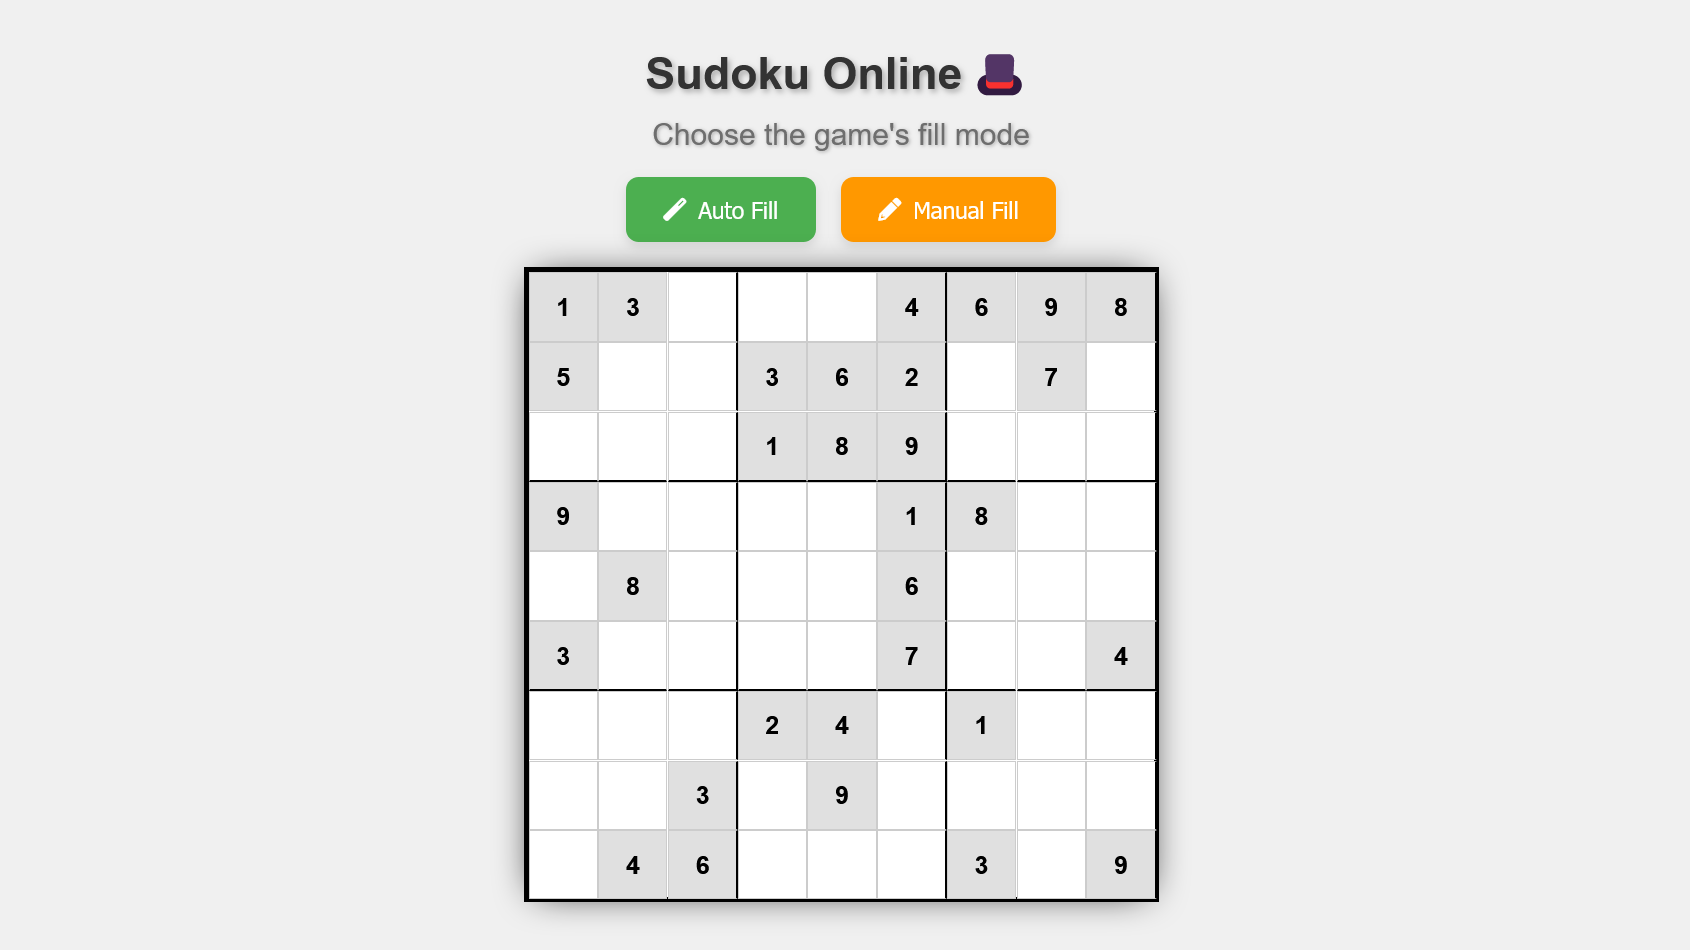
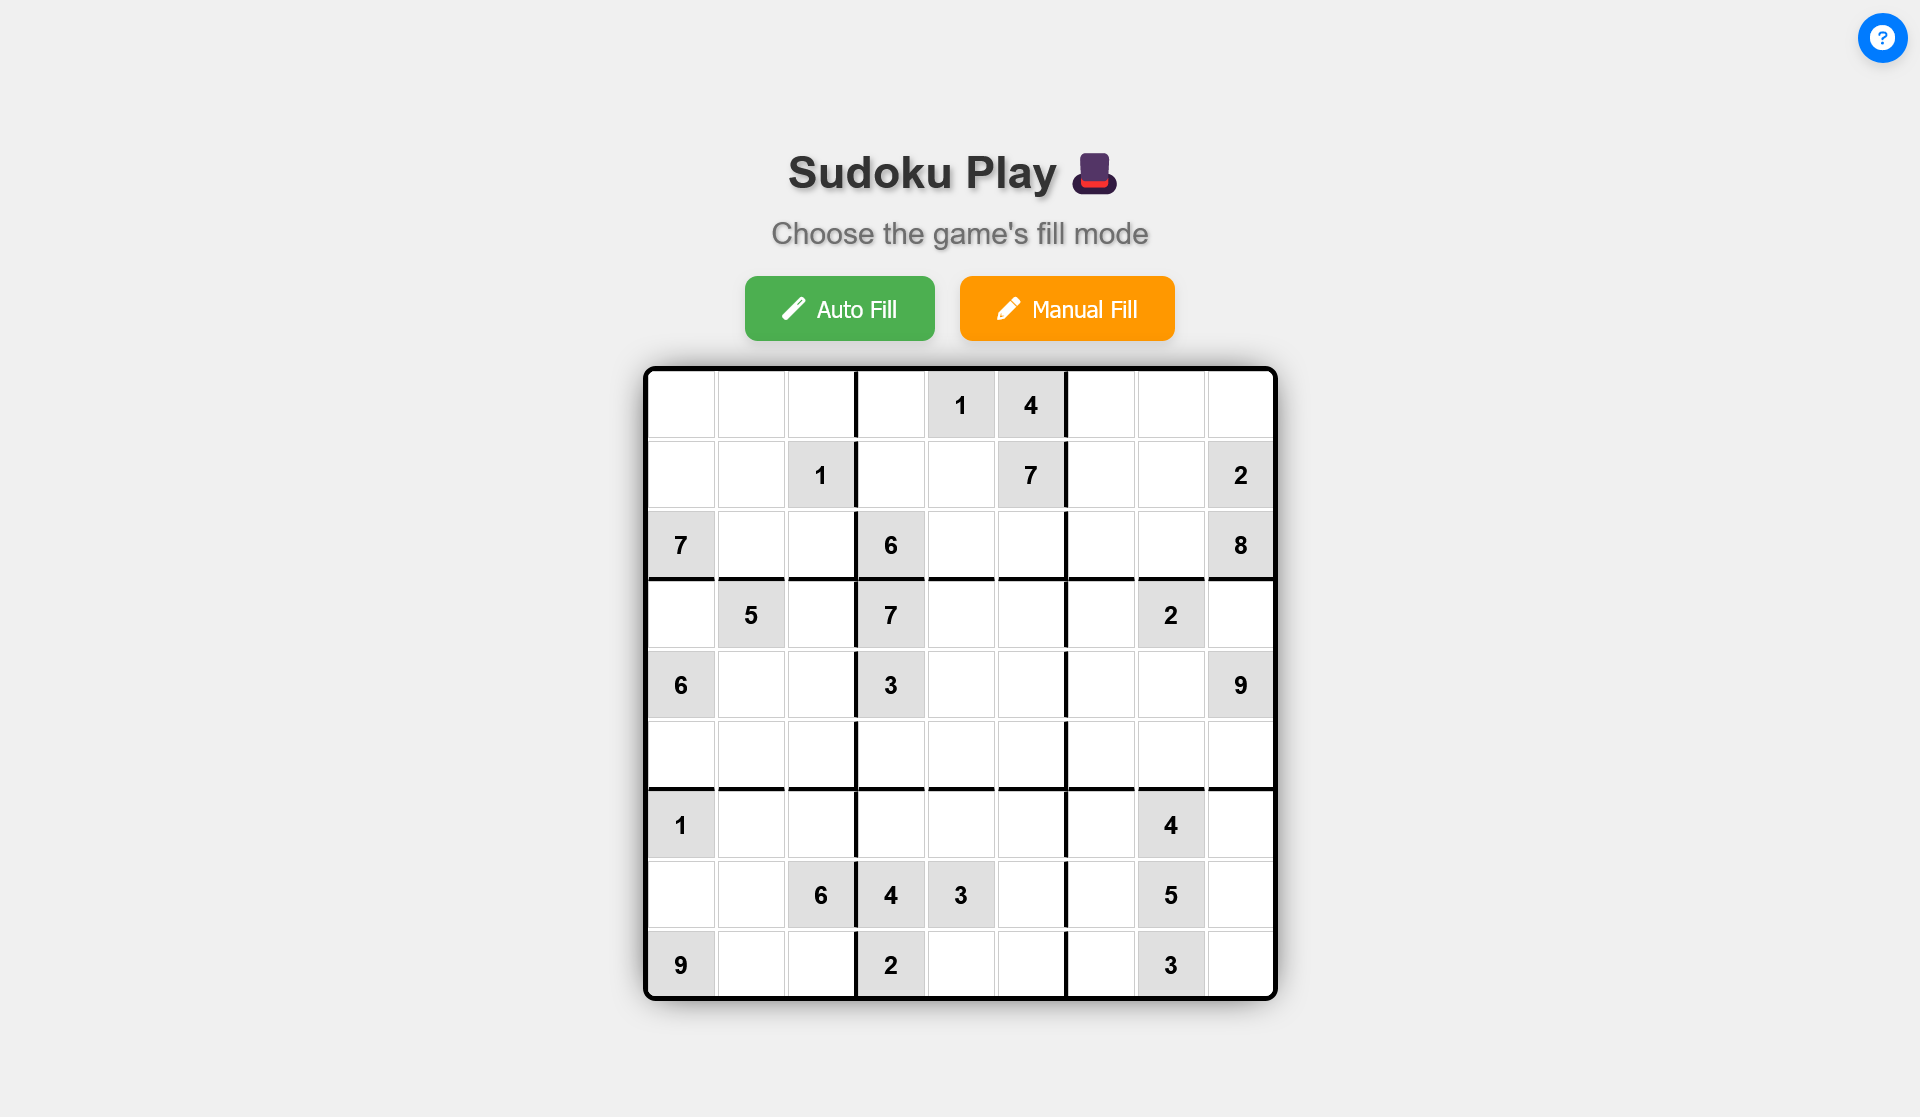
Surrender

Changed region(s): [[0.2769, 0.0611, 0.7077, 0.9768], [0.9538, 0.0, 1.0, 0.0611]]

diff --git a/src/js/main.js b/src/js/main.js
@@ -369,7 +369,7 @@ function checkMistake(difficulty, row, col) {
         if (difficulty === 5) {
             errorsCommitted++;
         } else {
-            
+
             const numbersCopy = initialNumbers.map(row => row.slice());
             numbersCopy[row][col] = currentValue;
             const conflicts = findConflicts(numbersCopy);
@@ -390,6 +390,7 @@ function checkMistake(difficulty, row, col) {
 // -------- Common Stuff ------- //
 function startGame(difficulty, grid) {
     stopSudokuAnimation();
+    stopTimer();
     errorsCommitted = 0;
     if (difficulty)
         generateSudoku(difficulty)
@@ -402,12 +403,13 @@ function startGame(difficulty, grid) {
         }
     }
 
-    createSudokuGrid(false, document.getElementById("sudoku-grid"), false, initialNumbers, difficulty ? parseInt(difficulty) : 0);
+    createSudokuGrid(false, document.getElementById("sudoku-grid"), false, initialNumbers, difficulty ? parseInt(difficulty) : 1);
 
     document.getElementById("auto-fill-button").style.display = "none";
     document.getElementById("manual-fill-button").style.display = "none";
     document.getElementById("message").style.display = "none";
     document.getElementById("timer").style.display = "block";
+    document.getElementById("surrender-button").style.display = "block";
 
     if (difficulty !== 5) {
         document.getElementById("number-dock").style.display = "flex";
@@ -782,6 +784,7 @@ function stopSudokuAnimation(){
     clearInterval(sudokuAnimationInterval);
 }
 
+
 // -------------------------------------- Restart Game ---------------------------------------------------------- //
 function restartGame(){
     soundClick.play();
@@ -792,15 +795,17 @@ function restartGame(){
     document.getElementById("message").style.display = "block";
     document.getElementById("timer").style.display = "none";
     document.getElementById("number-dock").style.display = "none";
+    document.getElementById("surrender-button").style.display = "none";
 
     stopConfetti();
+    stopSudokuAnimation();
+    stopTimer();
 
     generateInitialSudoku();
     startSudokuAnimation();
 
     notes = Array.from({length: 9}, () => Array.from({length: 9}, () => Array(9).fill(false)));
 }
-
 
 // ------------------------------------------ Initialization ---------------------------------------------------- //
 document.addEventListener("DOMContentLoaded", () => {
@@ -820,4 +825,28 @@ document.addEventListener("DOMContentLoaded", () => {
     startSudokuAnimation();
 
     document.getElementById('help-button').addEventListener('click', () => {showHelpModal(); soundClick.play();});
+    document.getElementById('surrender-button').addEventListener('click', () => {
+        soundClick.play();
+        showGameOverModal();
+    });
+
+    // --------------------------------------- Surrender Button Functionality ------------------------------------------- //
+    document.getElementById('surrender-button').addEventListener('click', () => {
+        soundClick.play();
+        Swal.fire({
+            title: 'Are you sure?',
+            text: "You won't be able to revert this!",
+            icon: 'warning',
+            showCancelButton: true,
+            confirmButtonColor: '#3085d6',
+            cancelButtonColor: '#d33',
+            confirmButtonText: '<i class="fas fa-flag"></i>  Yes, surrender!',
+            cancelButtonText: '<i class="fas fa-times"></i> No, cancel!'
+        }).then((result) => {
+            if (result.isConfirmed) {
+                soundClick.play();
+                showGameOverModal();
+            }
+        });
+    });
 });

diff --git a/src/css/style.css b/src/css/style.css
@@ -379,24 +379,43 @@ body {
     transition: filter 0.3s, box-shadow 0.3s;
 }
 
-/* --------------------------------------- Help Button Styles ------------------------------------------- */
-#help-button {
+/* --------------------------------------- Button Group Styles ------------------------------------------- */
+#button-group {
     position: absolute;
     top: 10px;
     right: 10px;
+    display: flex;
+    gap: 10px;
+}
+
+#surrender-button, #help-button {
     width: 40px;
     height: 40px;
     font-size: 20px;
     cursor: pointer;
     border: none;
     border-radius: 50%;
-    background-color: #007bff;
-    color: white;
     box-shadow: 0 4px 8px rgba(0, 0, 0, 0.1);
     transition: background-color 0.3s, transform 0.3s;
     display: flex;
     justify-content: center;
     align-items: center;
+    animation: fadeIn 1s;
+}
+
+#surrender-button {
+    background-color: #ff4d4d;
+    color: white;
+}
+
+#surrender-button:hover {
+    background-color: #cc0000;
+    transform: scale(1.1);
+}
+
+#help-button {
+    background-color: #007bff;
+    color: white;
 }
 
 #help-button:hover {
@@ -466,5 +485,16 @@ body {
 
     #message {
         font-size: 20px;
+    }
+
+    #button-group {
+        top: 5px;
+        right: 5px;
+    }
+
+    #surrender-button, #help-button {
+        width: 35px;
+        height: 35px;
+        font-size: 18px;
     }
 }

diff --git a/index.html b/index.html
@@ -70,6 +70,9 @@
         <div class="number-item" data-number="9">9</div>
     </div>
 
-    <button id="help-button"><i class="fas fa-question-circle"></i></button>
+    <div id="button-group">
+        <button id="surrender-button" style="display: none;"><i class="fas fa-flag"></i></button>
+        <button id="help-button"><i class="fas fa-question-circle"></i></button>
+    </div>
 </body>
 </html>

diff --git a/README.md b/README.md
@@ -51,10 +51,10 @@ It's intended to be playable both **online** and **offline**  in must devices/OS
   - [x] Add completed numbers guidance (Remaining Number Dock)
   - [x] Add possible numbers guidance interface (Notes)
   - [x] Highlight concept errors (Conflicts)
-- [ ] Add game-over system, where player loses if he made 5/4/3/2/1 mistakes in the different levels of difficulty. In any case, the player won't know the mistake's count. The error concepts aren´t count as mistakes, except in insane level
+- [x] Add game-over system, where player loses if he made 5/4/3/2/1 mistakes in the different levels of difficulty. In any case, the player won't know the mistake's count. The error concepts aren´t count as mistakes, except in insane level
 - [x] Add insane level, without any assistance.
 - [x] Add help explaining Game Rules and guidance Assistance System.
-- [ ] Add surrender option.
+- [x] Add surrender option.
 - [ ] Internationalization (english, español, français, italiano, deutsch, português)
 - [ ] Language auto detection
 - [ ] Optimization and HTML/CSS/JS Minify
